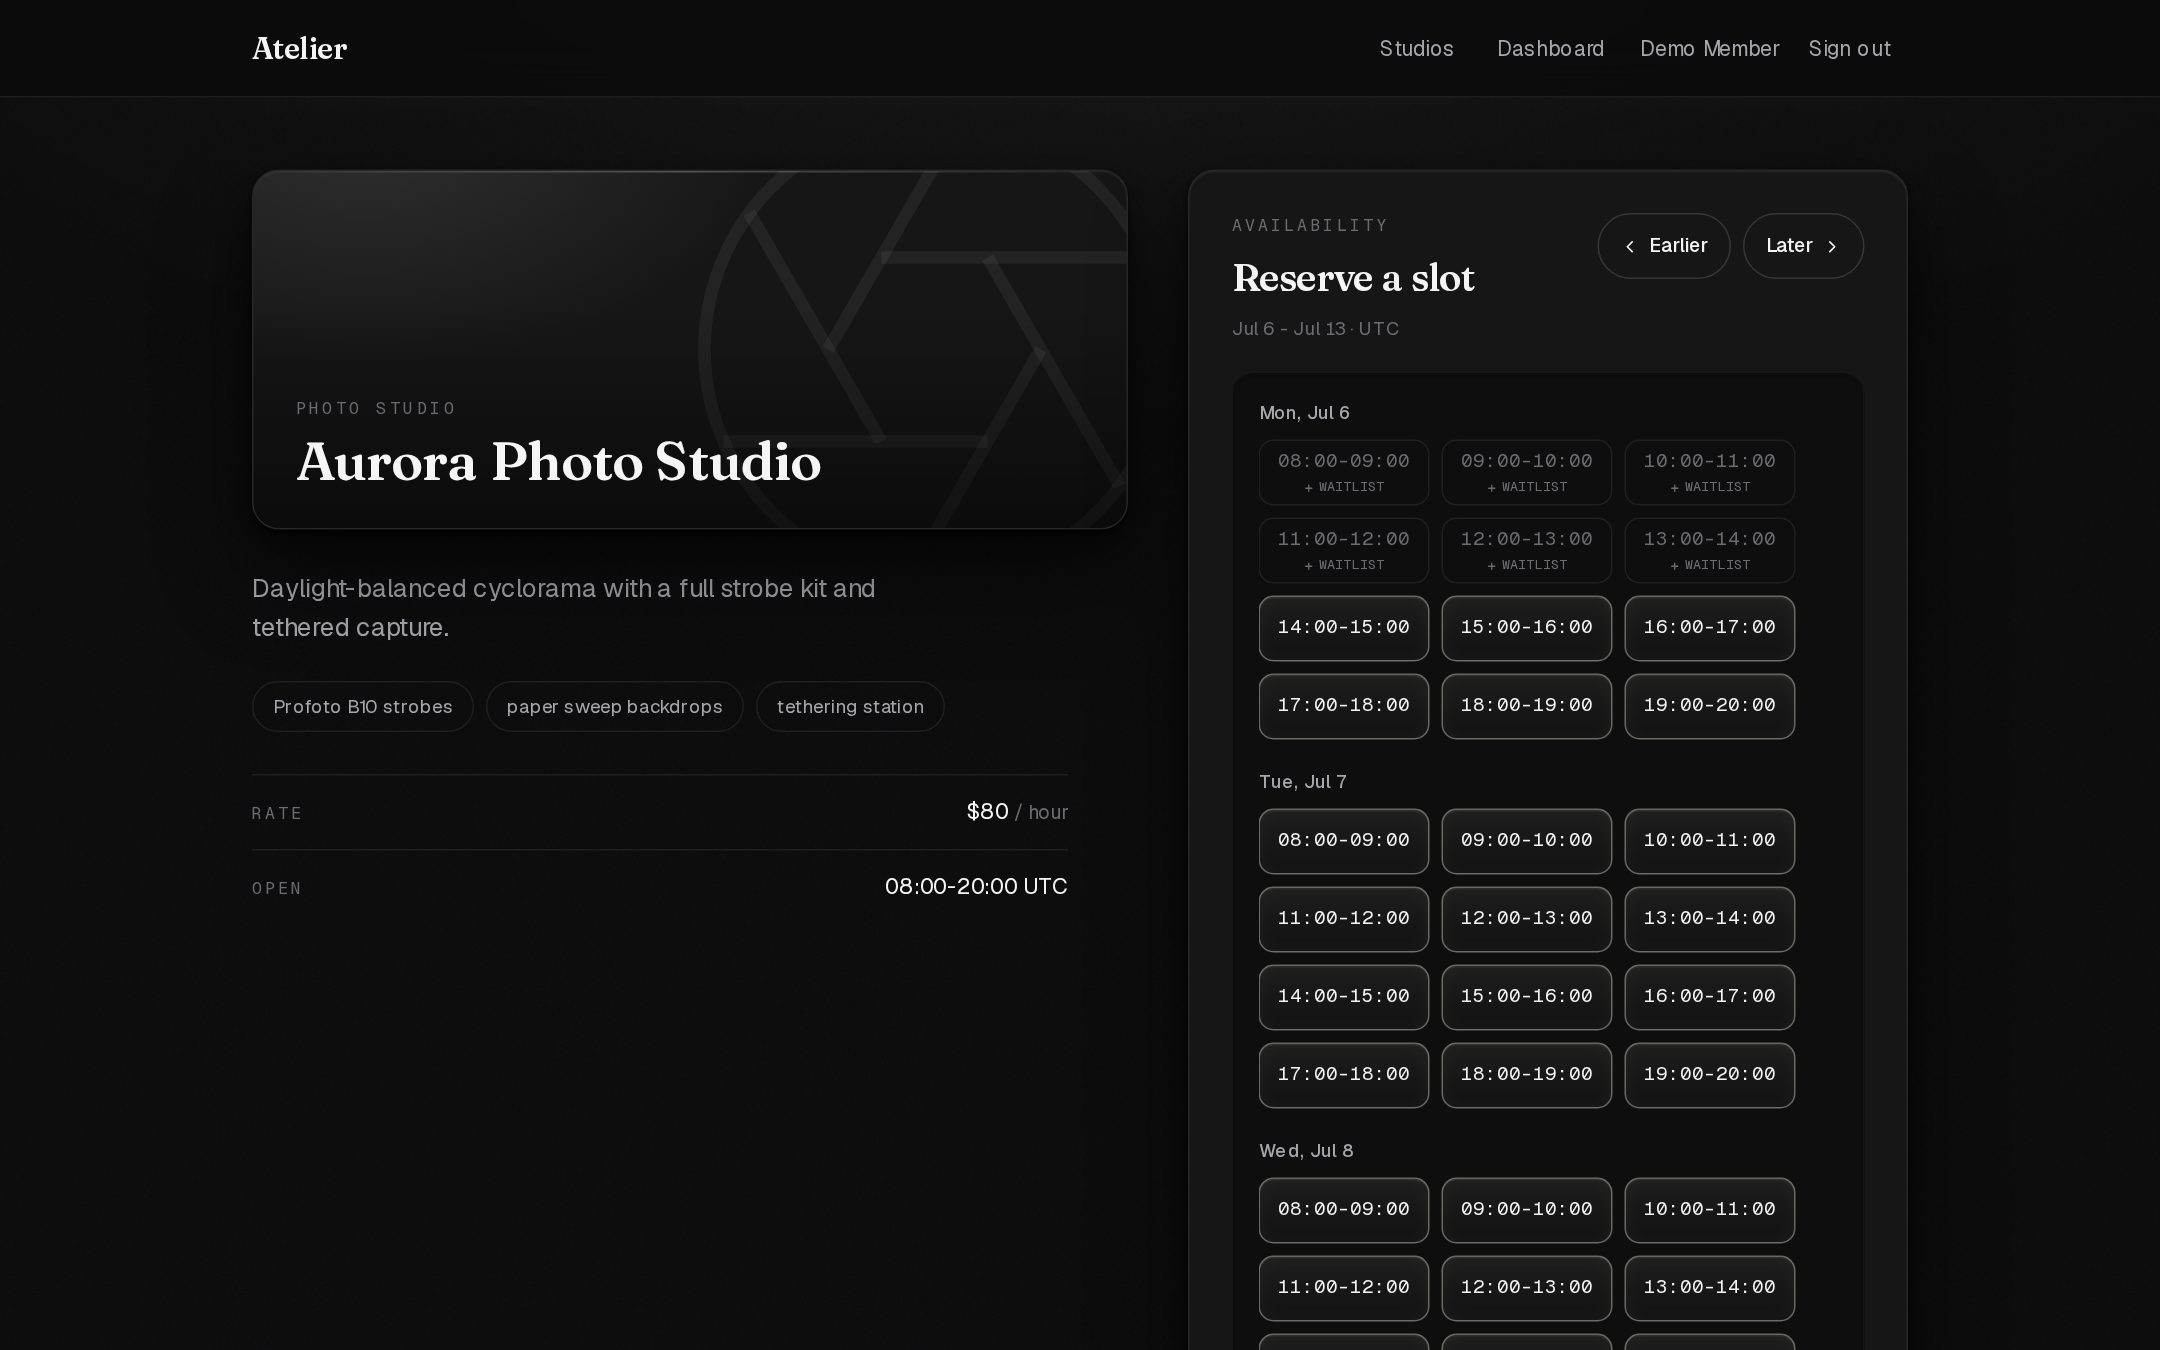
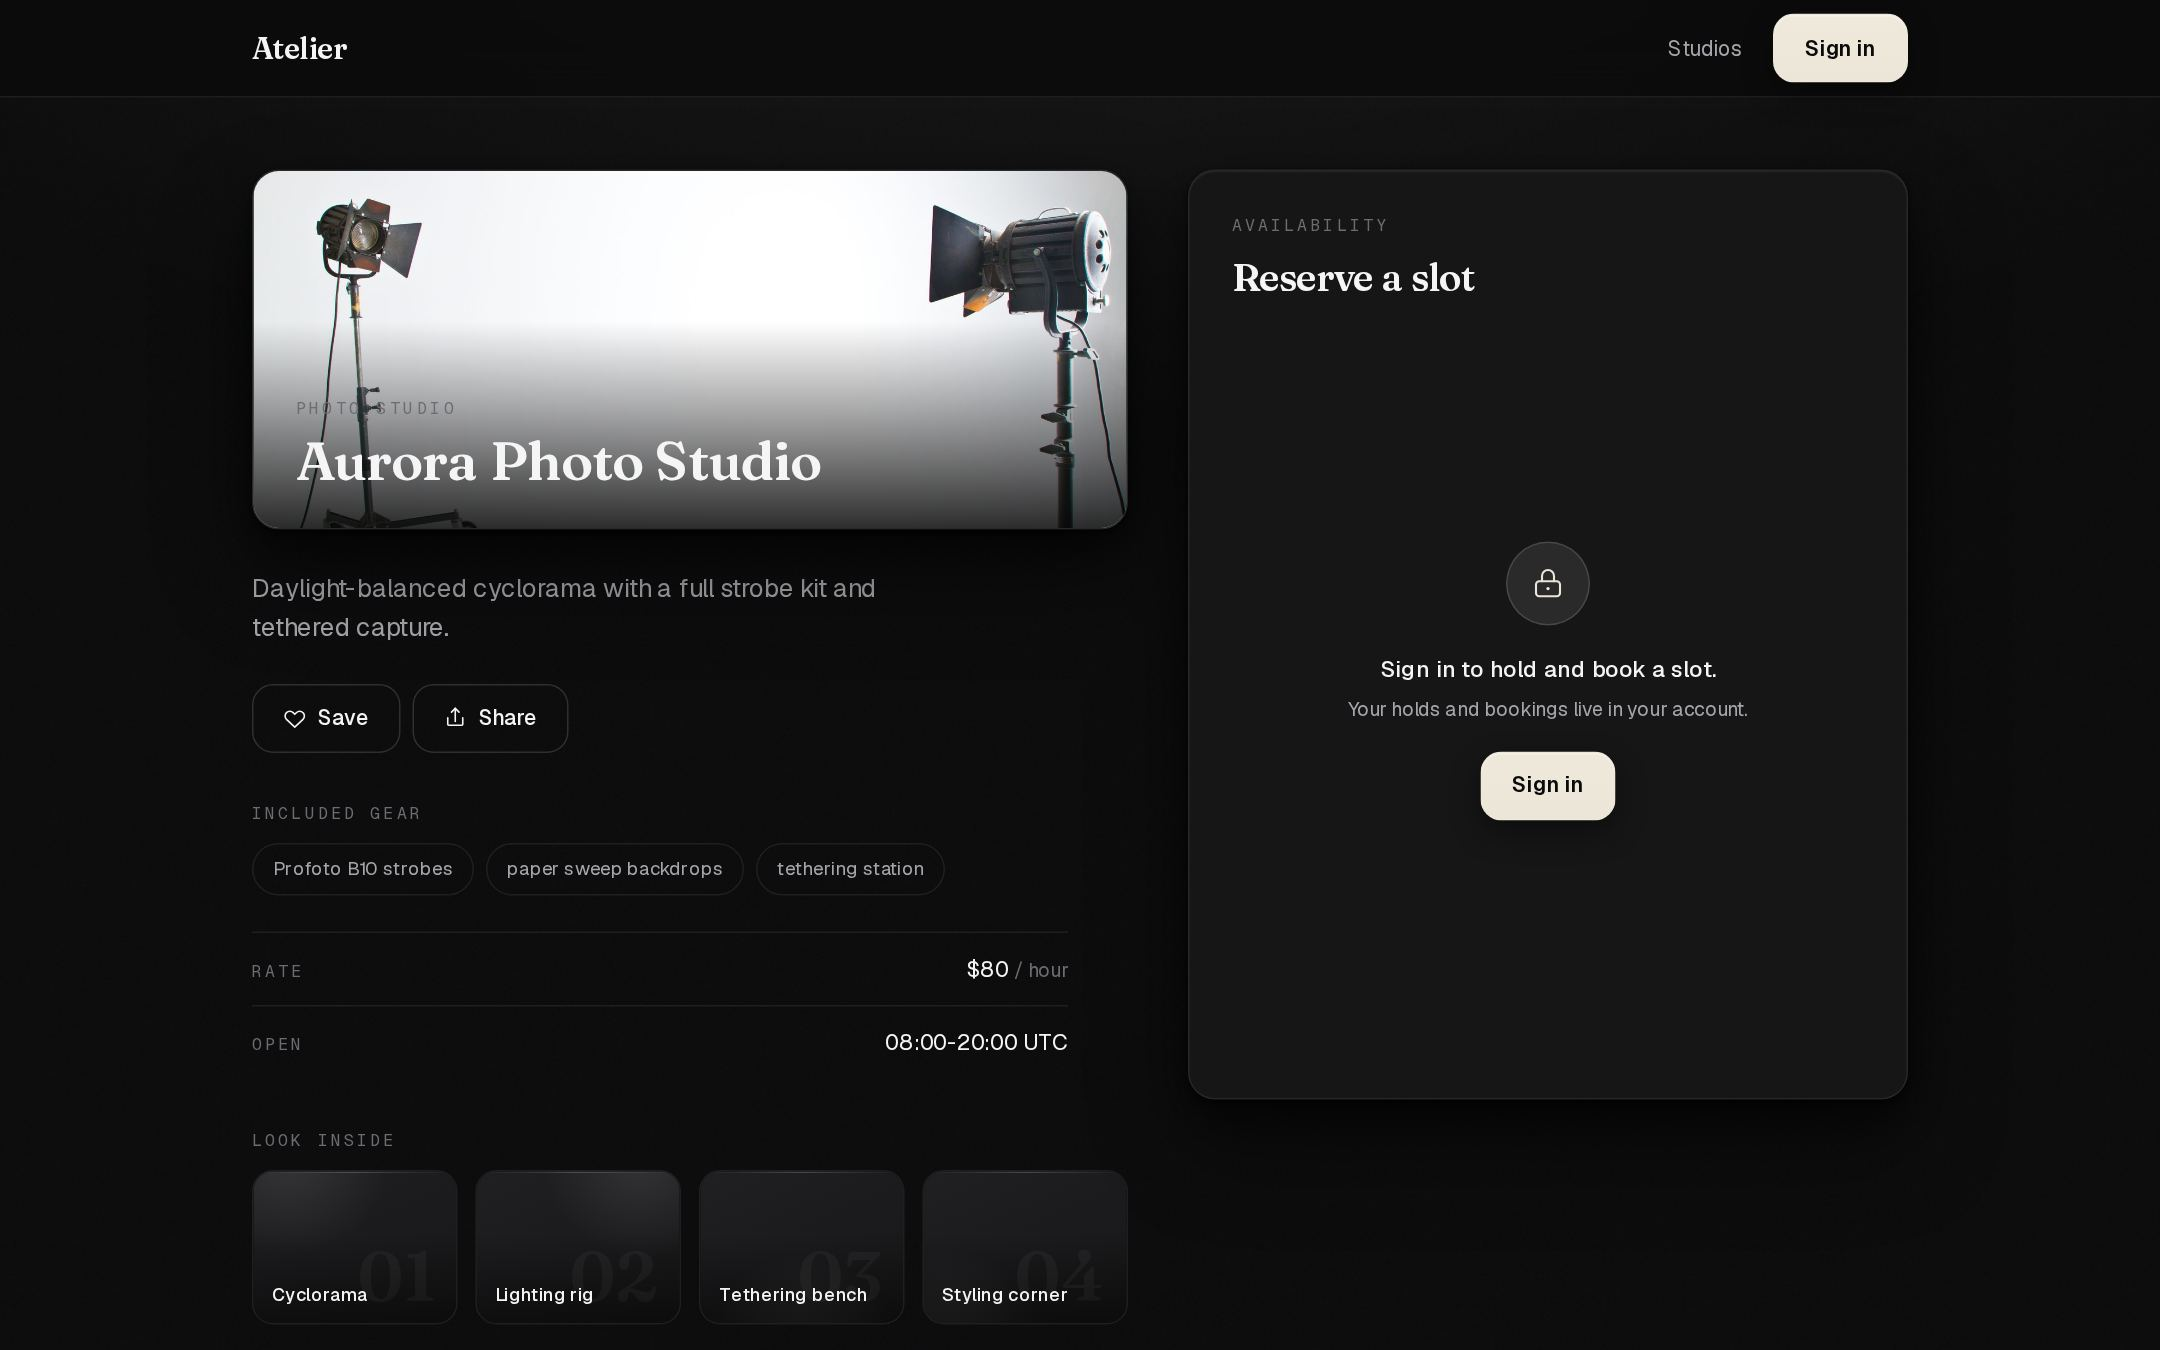
docs(readme): refresh screenshots with real studio photos; add horizon red->green; fix ivory-pass caption

diff --git a/README.md b/README.md
@@ -23,9 +23,9 @@ Live: **https://atelier-studios-opal.vercel.app** &nbsp;|&nbsp; The loop journal
 
 ![Atelier studio gallery](docs/screenshots/01-gallery.jpg)
 
-| Booking confirmed (sealed reference) | Your dashboard |
+| Booking confirmed (the ivory pass) | Your dashboard |
 | --- | --- |
-| ![Booking confirmation with a brass seal](docs/screenshots/03-confirmation.jpg) | ![Member dashboard](docs/screenshots/05-dashboard.jpg) |
+| ![Booking confirmation with the ivory booking pass](docs/screenshots/03-confirmation.jpg) | ![Member dashboard](docs/screenshots/05-dashboard.jpg) |
 
 ## 🎯 The problem
 
@@ -112,13 +112,16 @@ use a real cloud browser.
 | admin studio crud | backend | admin create/update/soft-delete, member 403 | passed |
 | blackout cancels booking | backend | blackout wins over an existing booking | passed |
 | hold ownership edges | backend | foreign confirm 403, unknown hold 404 | passed |
+| availability respects the horizon | backend | no `free` slot beyond the 30-day horizon; `422 BEYOND_HORIZON` | passed |
 | home gallery lists studios | frontend | the gallery renders with rates | passed |
+| creating an account reaches the dashboard | frontend | register, then land on the dashboard | passed |
+| admin console with studios and blackout | frontend | admin reaches the operations console | passed |
 | booking wizard to confirmation | frontend | full sign-in, hold, confirm flow | verified on video (see honesty) |
 | wrong password shows an error | frontend | the login failure path | verified on video (see honesty) |
 
 ## 🔁 The loop caught real issues
 
-The loop is only worth its points if it catches things. Two concrete examples, both
+The loop is only worth its points if it catches things. Three concrete examples, each
 in `LOOP.md` with matching platform runs and commits:
 
 - **The tests were not actually running.** The first backend tests reported
@@ -135,6 +138,13 @@ in `LOOP.md` with matching platform runs and commits:
   enumerate accounts by timing. Fixed by running one scrypt against a dummy hash on
   the unknown-email path so both return in the same time, then re-verified through
   the `auth lifecycle` test.
+- **Availability advertised slots the engine would reject.** A checker-written backend
+  test found availability reporting hours beyond the 30-day booking horizon as `free`
+  while a hold on the same hour was rejected, an invariant break reachable by paging
+  "Later". It failed against the live URL (RED, run `c73ac75f`); the fix makes
+  availability skip beyond-horizon hours and return a distinct `422 BEYOND_HORIZON`
+  instead of the catch-all validation error; the same test then passed (GREEN, run
+  `b94420bb`, same `testId`). Red and green are both banked on the platform, one test.
 
 ## 🔗 Live and evidence
 
@@ -151,7 +161,7 @@ Sign in, open a studio, pick an open slot, and confirm to see the sealed referen
 Evidence, positive and negative:
 
 - Positive: the booking wizard completes end to end. The confirmation above shows a
-  real reference (`ATL-CDJ3L8`) minted by the live app.
+  real reference (`ATL-9SVKMX`) minted by the live app.
 - Negative (the system says no): the `anti-overlap invariant` test holds a slot, then
   a second account holding the same slot receives `409 SLOT_CONFLICT`; and the
   intentional-failure probe returned `failed`, proving the checker can fail loudly